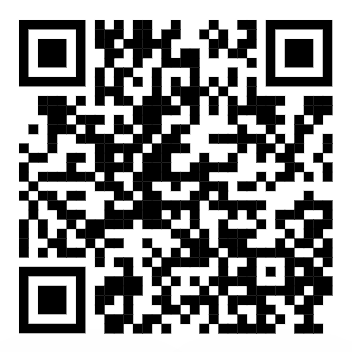
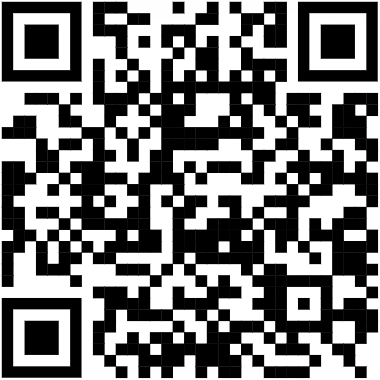
[Update] Medical interview

diff --git a/docs/index.html b/docs/index.html
@@ -33,7 +33,7 @@
                     <span class="menu-title" style="display: none">Overview</span>
                     <h3 class="r-fit-text">Research Software Engineer - Interview</h3>
                     <p class="name" style="font-size: 25px;">Han Wu (Ph.D. Thesis Submitted)</p>
-                    <div class="r-hstack">
+                    <!-- <div class="r-hstack">
                         <div>
                             <a href="https://wuhanstudio.cc">
                               <img align="center" width=55% src="https://github-readme-stats.wuhanstudio.vercel.app/api?username=wuhanstudio&include_all_commits=true&show_icons=true&hide=issues&count_private=true" />
@@ -42,7 +42,7 @@
                               <img align="center" width=40% src="https://github-readme-stats.wuhanstudio.vercel.app/api/top-langs/?username=wuhanstudio&layout=compact&langs_count=6" />
                             </a>
                         </div>
-                    </div>
+                    </div> -->
                     <p style="font-size: 22px;"><i class="fab fa-github"></i> &nbsp; <a href="https://github.com/wuhanstudio">GitHub</a></p>
 
                     <aside class="notes">
@@ -52,7 +52,7 @@
                     </aside>
                 </section>
 
-                <section data-auto-animate>
+                <!-- <section data-auto-animate>
                     <span class="menu-title" style="display: none">Education</span>
                     <div class="row">
                         <div class="col col-6 fragment" data-fragment-index="1">
@@ -127,7 +127,7 @@
                     <div class="row">
                         <strong><p style="font-size: 25pt; margin: 0;"> Ph.D. in Computer Science</p></strong>
                     </div>
-                </section>
+                </section> -->
 
                 <section>
                     <span class="menu-title" style="display: none">Project</span>
@@ -213,9 +213,9 @@
                     </div>
 
                     <div class="fragment" data-fragment-index="1">
-                        <p style="font-size: 14pt; text-align: justify; margin-bottom: 0; margin-top: 5pt;">[2024-08] KubeCon: <strong>WASM on Embedded Systems (RTOS)	</strong>. <a href="https://events.linuxfoundation.org/kubecon-cloudnativecon-open-source-summit-ai-dev-china/">Event Link</a></p>
-                        <p style="font-size: 14pt; text-align: justify; margin-bottom: 0; margin-top: 5pt;">[2024-06] Workshop: <strong>Parallel Computing</strong>. <a href="https://github.com/coding-for-reproducible-research/parallel-computing">Event Link</a></p>
-                        <p style="font-size: 14pt; text-align: justify; margin-bottom: 0; margin-top: 5pt;">[2023-11] Workshop: <strong>Introduction to HPC & ISCA </strong>. <a href="https://uniexeterrse.github.io/intro-to-isca/">Event Link</a></p>
+                        <p style="font-size: 14pt; text-align: justify; margin-bottom: 0; margin-top: 5pt;">[2024-08] Talk: <strong>WASM on Embedded Systems (RTOS)	</strong>, KubeCon HK, 2024. <a href="https://events.linuxfoundation.org/kubecon-cloudnativecon-open-source-summit-ai-dev-china/">Event Link</a></p>
+                        <p style="font-size: 14pt; text-align: justify; margin-bottom: 0; margin-top: 5pt;">[2024-06] Workshop: <strong>Parallel Computing</strong>, University of Exeter. <a href="https://github.com/coding-for-reproducible-research/parallel-computing">Event Link</a></p>
+                        <p style="font-size: 14pt; text-align: justify; margin-bottom: 0; margin-top: 5pt;">[2023-11] Workshop: <strong>Introduction to HPC & ISCA </strong>, University of Exeter. <a href="https://uniexeterrse.github.io/intro-to-isca/">Event Link</a></p>
                         <p style="font-size: 14pt; text-align: justify; margin-bottom: 0; margin-top: 5pt;">[2021-11] Invited Talk: <strong>Embedded System Programming</strong>, Manipal University Jaipur. <a href="https://wuhanstudio.cc/resources/img/manipal.png">Event Poster</a></p>
                     </div>
                     <hr />
@@ -228,10 +228,10 @@
                 <section data-auto-animate="">
                     <h2>Thanks</h2>
                     <div class="r-vstack">
-                        <p><a href="https://hpc.wuhanstudio.uk/">https://hpc.wuhanstudio.uk</a></p>
+                        <p><a href="https://medical.wuhanstudio.uk/">https://medical.wuhanstudio.uk</a></p>
                     </div>
                     <img src="images/qrcode.png" width="25%" />
-                    <p style="font-size: 22px;"><i class="fab fa-github"></i> &nbsp; <a href="https://github.com/wuhanstudio/hpc-postdoc-interview">Source Code</a></p>
+                    <p style="font-size: 22px;"><i class="fab fa-github"></i> &nbsp; <a href="https://github.com/wuhanstudio/medical-postdoc-interview">Source Code</a></p>
                 </section>
 
             </div>
